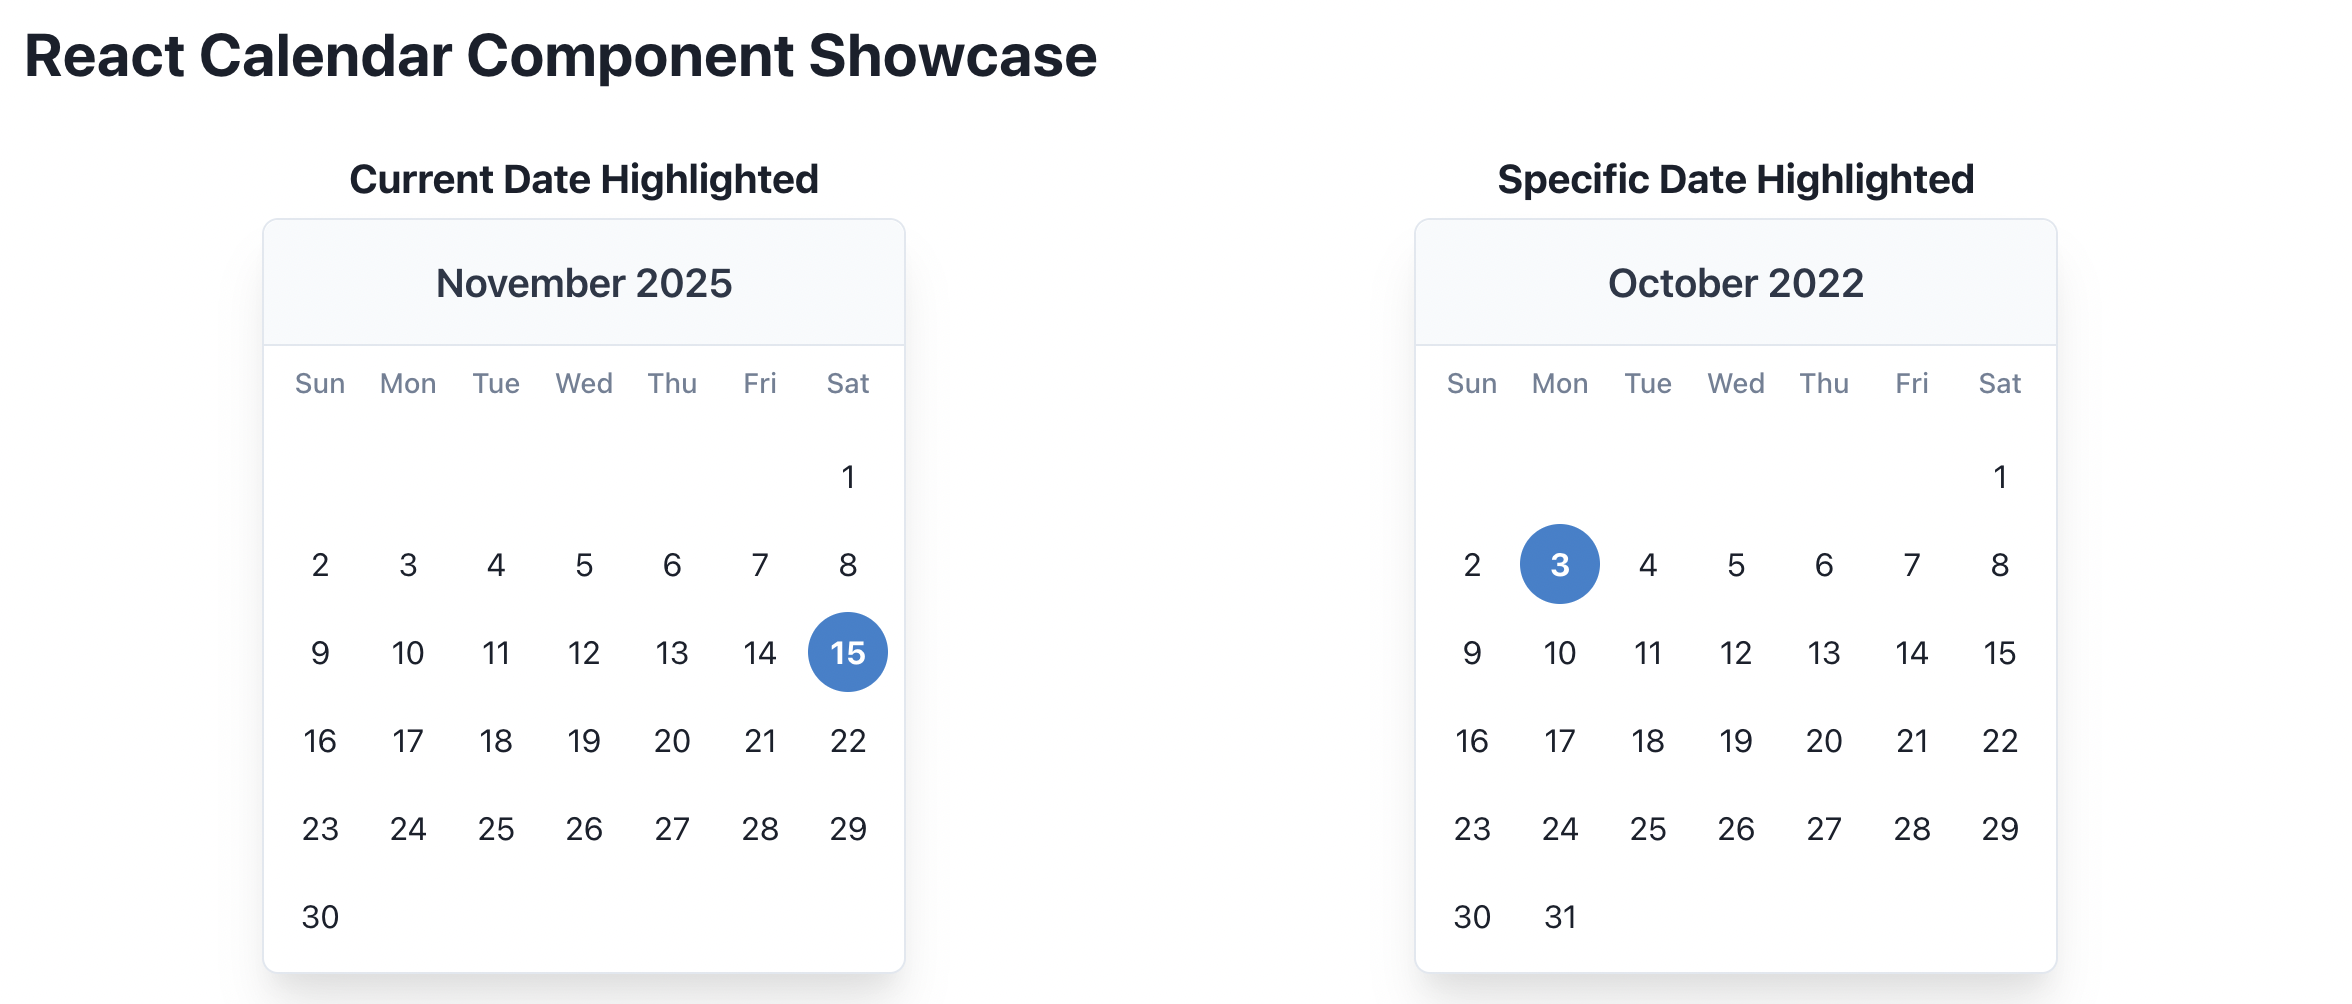
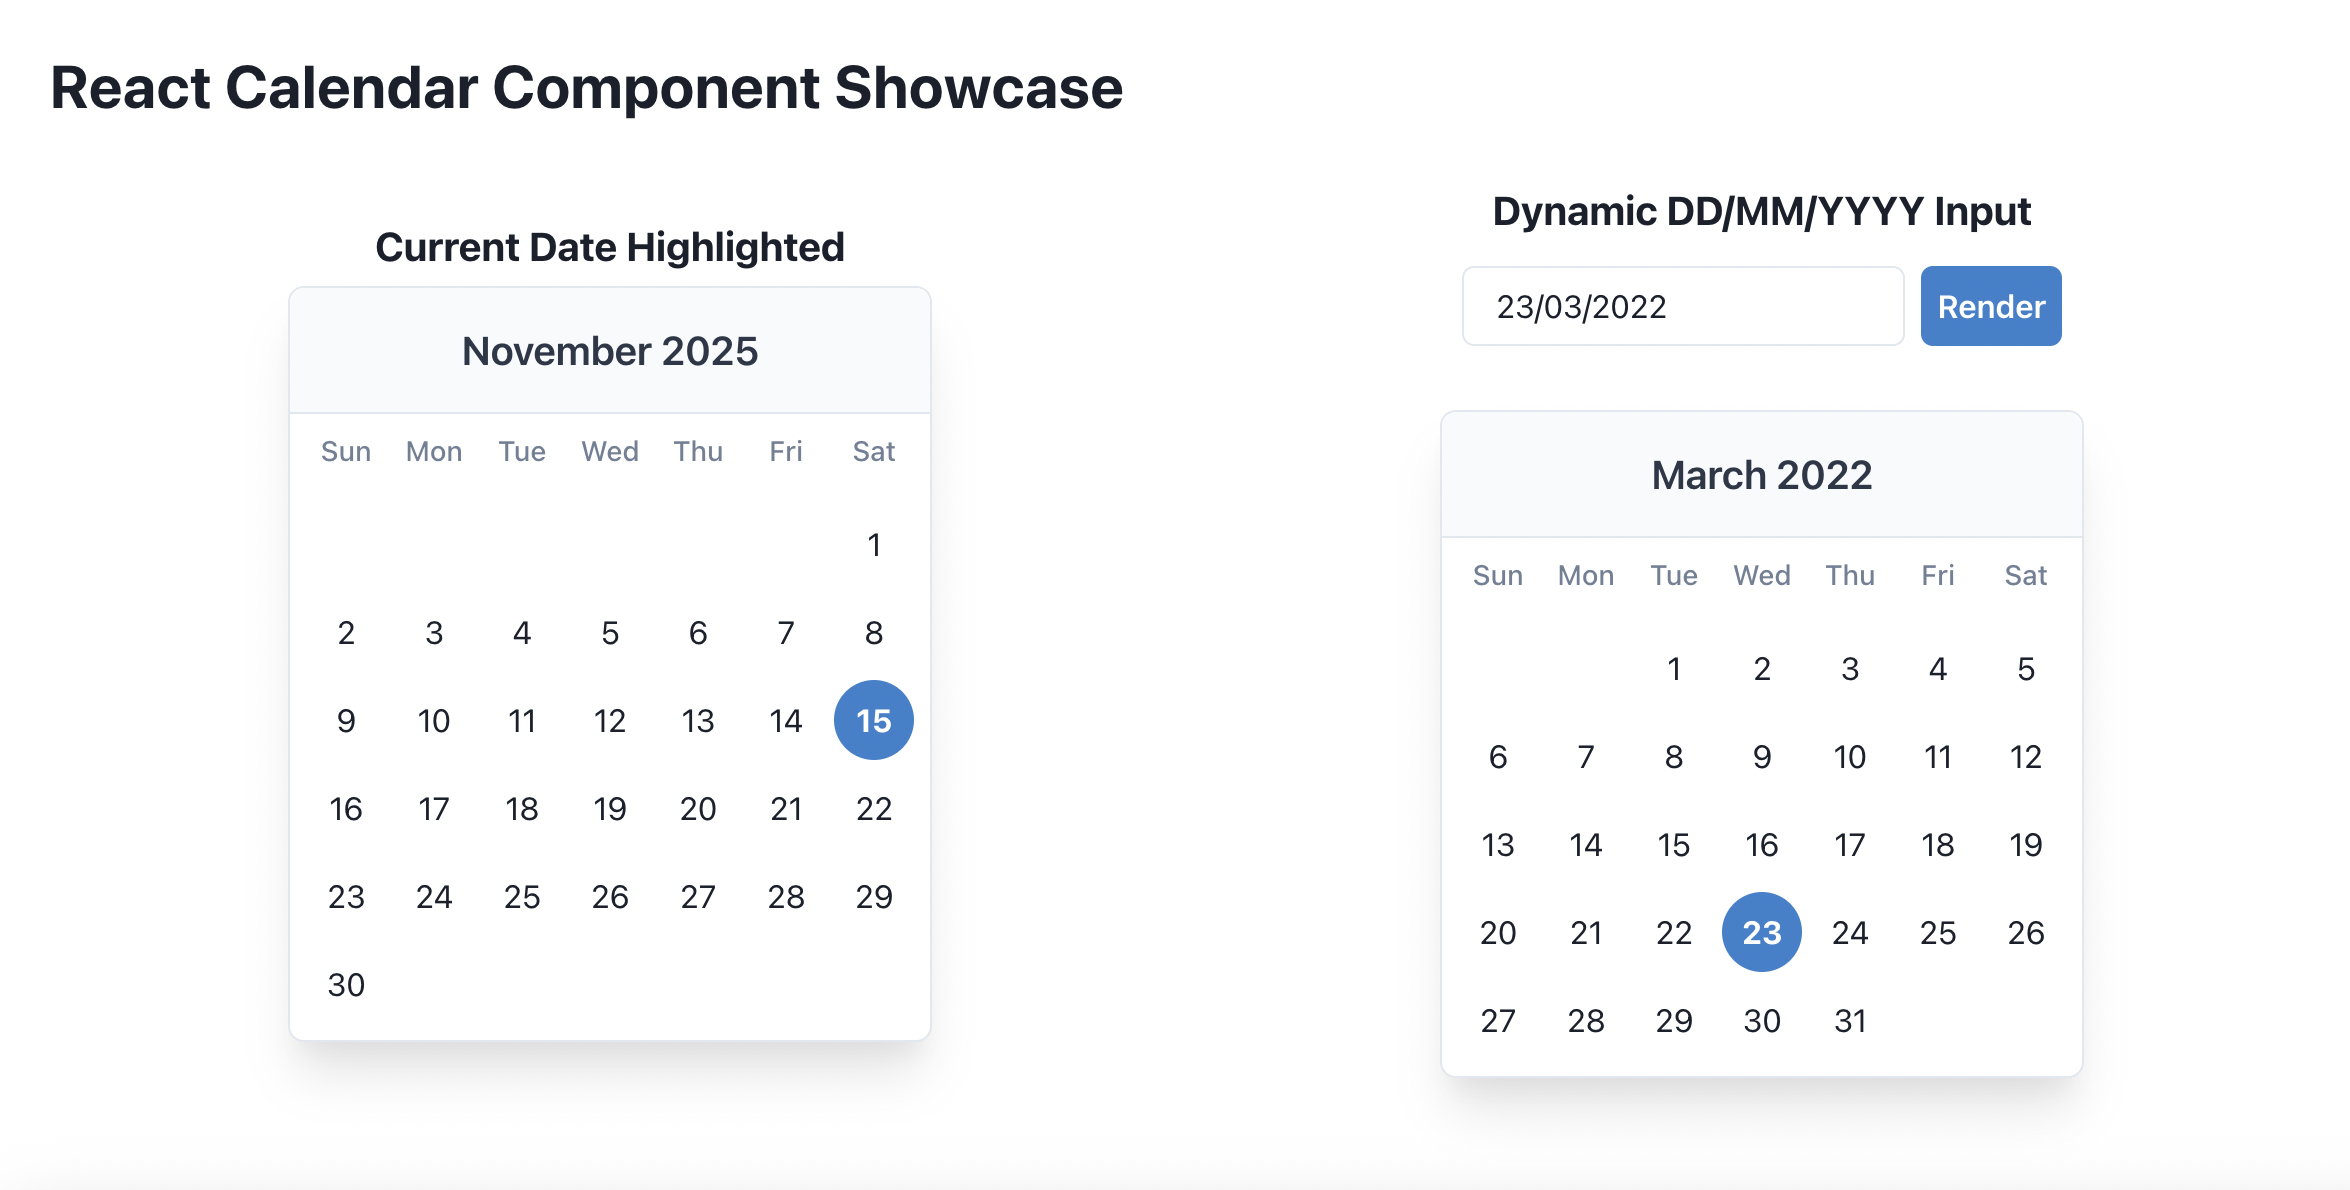
dynamic calendar

diff --git a/src/components/DynamicCalendar.tsx b/src/components/DynamicCalendar.tsx
@@ -1,0 +1,92 @@
+import { Box, Flex, Heading, VStack, Input, Button, Text } from '@chakra-ui/react';
+import React, { useState } from 'react';
+import Calendar from './calendar/Calendar';
+
+
+const DynamicCalendarInput: React.FC = () => {
+  const initialDateString = "23/03/2020"; // DD/MM/YYYY
+  
+  const [dateInput, setDateInput] = useState(initialDateString);
+  const [calendarDate, setCalendarDate] = useState(initialDateString);
+  const [validationError, setValidationError] = useState('');
+
+  const handleInputChange = (e: React.ChangeEvent<HTMLInputElement>) => {
+    setDateInput(e.target.value);
+  };
+
+  const validateAndRender = () => {
+    // Regex for basic validation: DD/MM/YYYY format
+    const dateRegex = /^\d{2}\/\d{2}\/\d{4}$/;
+
+   if (!dateInput || dateInput.length === 0) {
+    setValidationError("Input cannot be empty.");
+    setCalendarDate(new Date().toLocaleDateString('en-GB'));
+    return;
+    }
+
+    if (!dateRegex.test(dateInput)) {
+    setValidationError("Must be in DD/MM/YYYY format.");
+    return;
+    }
+
+    const parts = dateInput.split('/'); 
+    const day = parseInt(parts[0], 10);
+    const month = parseInt(parts[1], 10); 
+    const year = parseInt(parts[2], 10);
+
+    if (month < 1 || month > 12) {
+        setValidationError("Month must be between 1 and 12.");
+        return;
+    }
+
+    const testDate = new Date(year, month - 1, day);
+
+    if (
+        testDate.getFullYear() !== year ||
+        testDate.getMonth() !== (month - 1) ||
+        testDate.getDate() !== day
+    ) {
+        setValidationError("Invalid date (e.g., Feb 30th or Sep 31st).");
+        return;
+    }
+
+    if (isNaN(testDate.getTime())) {
+        setValidationError("Invalid date format.");
+        return;
+    }
+
+    setValidationError('');
+    setCalendarDate(dateInput);
+  };
+
+  return (
+    <Flex direction="column" gap="16px" alignItems="center">
+        <Heading size="md" textAlign="center">Dynamic DD/MM/YYYY Input</Heading>
+        
+        <VStack spacing={2} width="100%">
+            <Flex width="100%" maxW="300px" gap={2}>
+                <Input
+                    placeholder="DD/MM/YYYY"
+                    value={dateInput}
+                    onChange={handleInputChange}
+                    isInvalid={!!validationError}
+                />
+                <Button colorScheme="blue" onClick={validateAndRender} onKeyDown={(event)=> {
+                    if (event.key === 'Enter') {
+                        validateAndRender();
+                    }
+                }}>Render</Button>
+            </Flex>
+            {validationError && (
+                <Text color="red.500" fontSize="sm">{validationError}</Text>
+            )}
+        </VStack>
+        
+        <Box mt={4}>
+            <Calendar date={calendarDate} />
+        </Box>
+    </Flex>
+  );
+};
+
+export default DynamicCalendarInput;

diff --git a/src/App.tsx b/src/App.tsx
@@ -1,6 +1,7 @@
 
 import { Box, Flex, Grid, Heading, VStack } from '@chakra-ui/react';
 import Calendar from './components/calendar/Calendar';
+import DynamicCalendarInput from './components/DynamicCalendar';
 
 function App() {
   const today = new Date();
@@ -15,14 +16,7 @@ function App() {
                     <Heading size="md">Current Date Highlighted</Heading>
                     <Calendar date={today} />
                 </Flex>
-                 <Flex direction="column" gap="8px" alignItems={"center"}>
-                    <Heading size="md">Specific Date Highlighted</Heading>
-                    <Calendar date={"03/10/2022"} />
-                </Flex>
-                 <Flex direction="column" gap="8px" alignItems={"center"}>
-                    <Heading size="md">Specific Date Highlighted</Heading>
-                    <Calendar date={"23/03/2020"} />
-                </Flex>
+                <DynamicCalendarInput />
             </Grid>
       </VStack>
     </Box>
